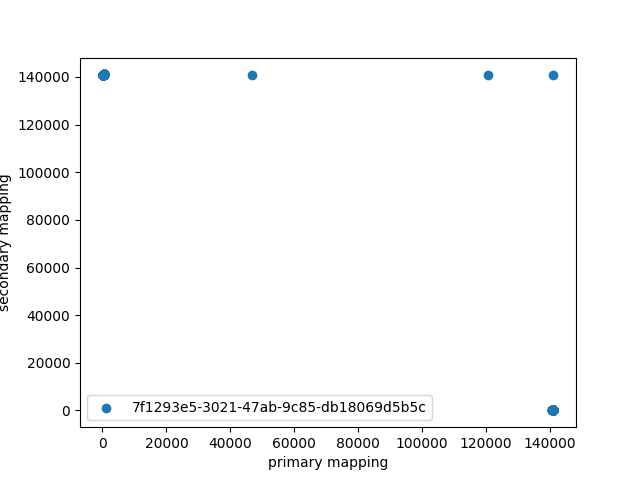
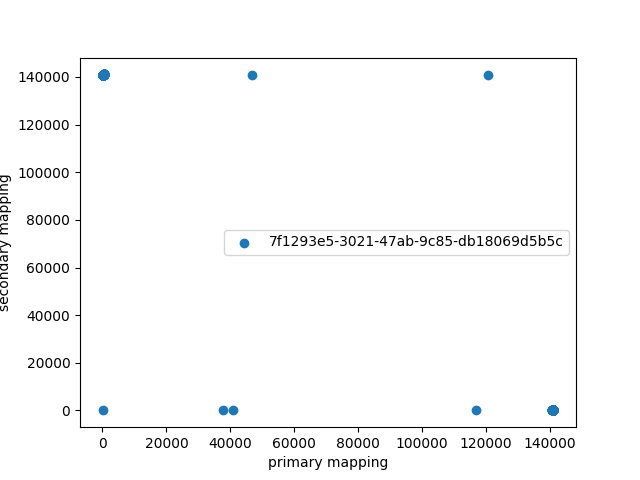
two mutations on same molecule dont work

diff --git a/two_mutations_on_the_same_molecule.py b/two_mutations_on_the_same_molecule.py
@@ -1,0 +1,90 @@
+import pysam
+import matplotlib.pyplot as plt
+from collections import defaultdict
+
+def find_interesting_reads(bam_file,genome_limits):
+    interesting_reads={}
+    with pysam.AlignmentFile(bam_file, "rb") as bam:
+        for read in bam.fetch():
+            ##compute the gaps and insertions
+            insertions=0
+            gaps=0
+            for ic, (block_type, block_len) in enumerate(read.cigar):
+                if block_type==1: #insertion
+                    insertions+=block_len
+                elif block_type==2: #deletion
+                    gaps+=block_len
+            l=read.query_alignment_length
+            if read.reference_start<genome_limits[0] and read.reference_start+l-insertions+gaps>genome_limits[1]: #both forward and reverse mapping
+                interesting_reads[read.query_name]=[read.reference_start,read.cigar, read.query_alignment_sequence] #we take the clipped sequence (without softclips)
+    return interesting_reads
+
+if __name__ == "__main__":
+    
+    #phages=['EC2D2','EM11','EM60']
+    #times=['new_chemistry','1','3','5']
+
+    phages=['EM11']
+    times=['3']
+    interesting_sites=[82280, 76089]
+    consensus_sites=['A','A']
+    genome_limits=[75000,83000]
+
+    for phage in phages:
+        for time in times:
+            
+            bam_file_path = f'results/{phage}/mapping/new_chemistry/{time}.bam'
+            interesting_reads = find_interesting_reads(bam_file_path, genome_limits)
+            
+            ######
+            ###cleanup the sequence
+            ######
+            interesting_sequences={}
+            for read_name, (start, cigar, sequence) in interesting_reads.items():
+                tot_len=[0,0]
+                insertions=[0,0]
+                gaps=[0,0]
+                for ic, (block_type, block_len) in enumerate(cigar):
+                    if tot_len+block_len>interesting_sites[0]:
+                        if block_type==0:
+                            print(read_name)
+                            interesting_sequences[read_name]=(start,sequence)
+                            break
+                        else:
+                            print(block_type)
+                            break
+                    if block_type==1: #insertion
+                        insertions+=block_len
+                    elif block_type==2: #deletion
+                        gaps+=block_len
+                    tot_len+=block_len
+            
+            ###compute the frequencies
+
+            n=len(interesting_sequences.keys())
+
+            non_consensus_count={'just_1':0, 'just_2':0, 'both':0, 'consensus':0}
+
+            for read_name, (start, sequence) in interesting_sequences.items():
+                
+                a=sequence[interesting_sites[0]-start]
+                ca=consensus_sites[0]
+                b=sequence[interesting_sites[1]-start]
+                cb=consensus_sites[1]
+                if a!=ca and b==cb:
+                    non_consensus_count['just_1']+=1
+                elif a==ca and b!=cb:
+                    non_consensus_count['just_2']+=1
+                elif a!=ca and b!=cb:
+                    non_consensus_count['both']+=1
+                elif a==ca and b==cb:
+                    non_consensus_count['consensus']+=1
+
+
+            print(non_consensus_count)
+            print('number of reads that span the region with both mutations:',n)
+
+            for key,value in non_consensus_count.items():
+                non_consensus_count[key]=value/n
+
+            print(non_consensus_count)

diff --git a/fastq_statistics.py b/fastq_statistics.py
@@ -5,6 +5,8 @@ import matplotlib.pyplot as plt
 
 len_dict={}
 
+lens=[]
+
 qual_dict={}
 for n in range(100):
     qual_dict[n]=0
@@ -19,11 +21,12 @@ for phage in phages:
                 len_dict[l]=1
             else:
                 len_dict[l]+=1
-            q=record.format('qual')
-            q_string=q.replace('\n',' ')
-            q_list=q_string.split(' ')[8:-1]
-            for nuc_qscore in q_list:
-                qual_dict[int(nuc_qscore)]+=1
+            lens.append(l)
+            #q=record.format('qual')
+            #q_string=q.replace('\n',' ')
+            #q_list=q_string.split(' ')[8:-1]
+            #for nuc_qscore in q_list:
+            #    qual_dict[int(nuc_qscore)]+=1
 
     print('the total number of reads is:', sum(len_dict.values()))
     max_len=max(len_dict.keys())
@@ -38,6 +41,10 @@ for phage in phages:
     plt.plot(b,len_distr)
     plt.ylabel('number of reads')
     plt.xlabel('length of the read')
+    plt.show()
+
+    plt.hist(lens, len(lens), density=True, histtype='step', cumulative=True)
+    plt.xlim([0,20000])
     plt.show()
 
     x=np.linspace(0,100,100)

diff --git a/convert_genome_coordinates.py b/convert_genome_coordinates.py
@@ -30,11 +30,11 @@ def convert_to_reference(site,start,cigar):
             break
         if block_type==1: #insertion
             insertions+=block_len
-        if block_type==2: #deletion
+        elif block_type==2: #deletion
             gaps+=block_len
-        if block_type==4: #softclip
+        elif block_type==4: #softclip
             clip+=block_len
-        if block_type==5: #hardclip
+        elif block_type==5: #hardclip
             clip+=block_len
         tot_len+=block_len
     reference=start+site+gaps-clip-insertions
@@ -42,7 +42,7 @@ def convert_to_reference(site,start,cigar):
 
 data={'EC2D2':[],
        'EM11':[84166,89018,76089,82280],
-       'EM60':[]}
+       'EM60':[50198]}
 
 if __name__=='__main__':
     for phage, sites in data.items():

diff --git a/secondary_mapping.py b/secondary_mapping.py
@@ -12,7 +12,7 @@ def find_reads_with_secondary_mapping(bam_file):
                 secondary_positions[read.query_name].append(read.reference_start+((read.reference_end-read.reference_start)/2))
         for read in bam.fetch():
             if read.query_name in secondary_positions.keys():
-                if not read.is_secondary:
+                if not(read.is_secondary) and not(read.is_supplementary):
                     primary_positions[read.query_name]=read.reference_start+((read.reference_end-read.reference_start)/2)
 
     return primary_positions, secondary_positions

diff --git a/time_analysis.py b/time_analysis.py
@@ -54,8 +54,8 @@ if __name__ == "__main__":
         
                 if not(np.isnan(row[1:]).any()):
                     #score_function=np.std(row[1:])
-                    #score_function=np.nanmax(row[1:])-np.nanmin(row[1:])
-                    score_function=row[-1]-row[1]
+                    score_function=np.nanmax(row[1:])-np.nanmin(row[1:])
+                    #score_function=row[-1]-row[1]
 
                     score_functions.append(score_function)
 

diff --git a/notes/note2.md b/notes/note2.md
@@ -168,12 +168,15 @@ then we rerun the mapping to reference rule on snakemake to have the forward map
 
 it should be easy.
 
+gaps:
 the assembly site 84166 maps on the reference genome of EM11 at 38473
 GGAGTTGGAT
 GGAGTTGGAT
 the assembly site 89018 maps on the reference genome of EM11 at 43326
 AAAAATGTCC
 AAAAATGTCC
+
+non consensus sites:
 the assembly site 76089 maps on the reference genome of EM11 at 30396
 ACCCGTATGG
 ACCCGTATGG
@@ -181,8 +184,44 @@ the assembly site 82280 maps on the reference genome of EM11 at 36587
 ACCCAACCAG
 ACCCAACCAG
 
-
 ### BONUS: secondary mapping
 
 we can see the relation between secondary and primary mapping in the reads that have a secondary mapping, it could give us information about genomic rearrangements.
+
+
+### BONUS: presence of mutations on the same dna molecule
+
+we want to analyse the mutations that we have found from the graphs. we choose mutations that are near
+
+phages=['EM11']
+times=['3']
+interesting_sites=[82280, 76089]
+consensus_sites=['A','A']
+genome_limits=[75000,83000]
+
+{'just_1': 60, 'just_2': 74, 'both': 157, 'consensus': 27}
+number of reads that span the region with both mutations: 318
+{'just_1': 0.18867924528301888, 'just_2': 0.23270440251572327, 'both': 0.4937106918238994, 'consensus': 0.08490566037735849}
+
+
+phages=['EM11']
+times=['5']
+interesting_sites=[82280, 76089]
+consensus_sites=['A','A']
+genome_limits=[75000,83000]
+
+{'just_1': 26, 'just_2': 49, 'both': 106, 'consensus': 24}
+number of reads that span the region with both mutations: 205
+{'just_1': 0.12682926829268293, 'just_2': 0.23902439024390243, 'both': 0.5170731707317073, 'consensus': 0.11707317073170732}
+
+
+phages=['EM11']
+times=['1']
+interesting_sites=[77655, 82934]
+consensus_sites=['A','G']
+genome_limits=[76000,83000]
+
+{'just_1': 47, 'just_2': 41, 'both': 119, 'consensus': 20}
+number of reads that span the region with both mutations: 227
+{'just_1': 0.20704845814977973, 'just_2': 0.18061674008810572, 'both': 0.5242290748898678, 'consensus': 0.0881057268722467}
 

diff --git a/notes/note4.md b/notes/note4.md
@@ -15,8 +15,4 @@ are methylation sites increasing?
 ! va bene la finestra dei pileup plots?
 vanno bene le thresholds delle frequenze?
 
-salva tutti i grafici della time analysis.
-
-raddrizza le assemblies reversed e rifai i mapping a mano
-
-raccogli tutti i siti interessanti.
+score on the basis of an entropy, if there is less disorder we give more power to the observation
